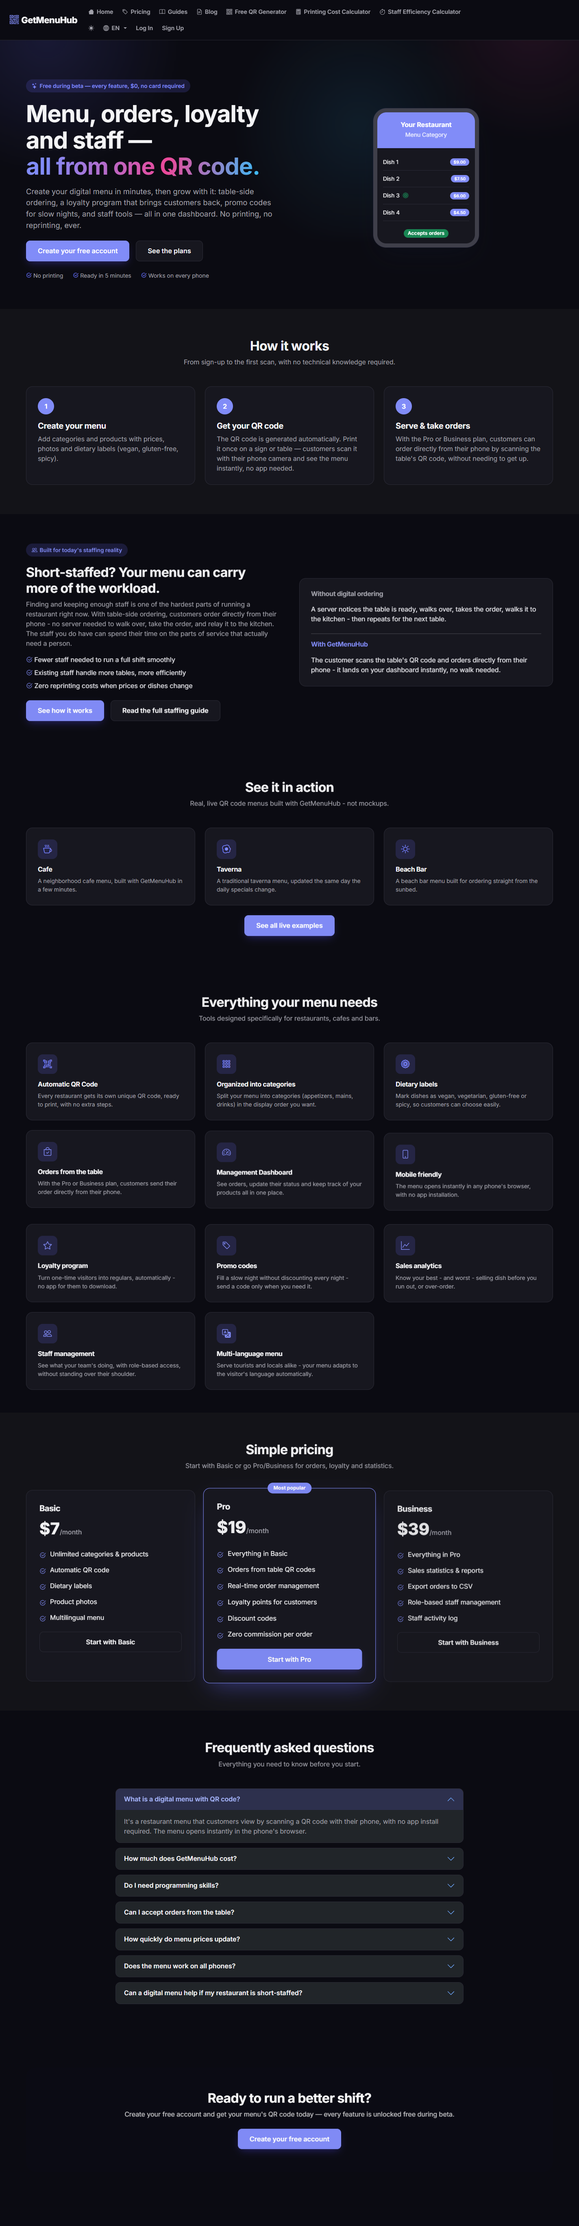
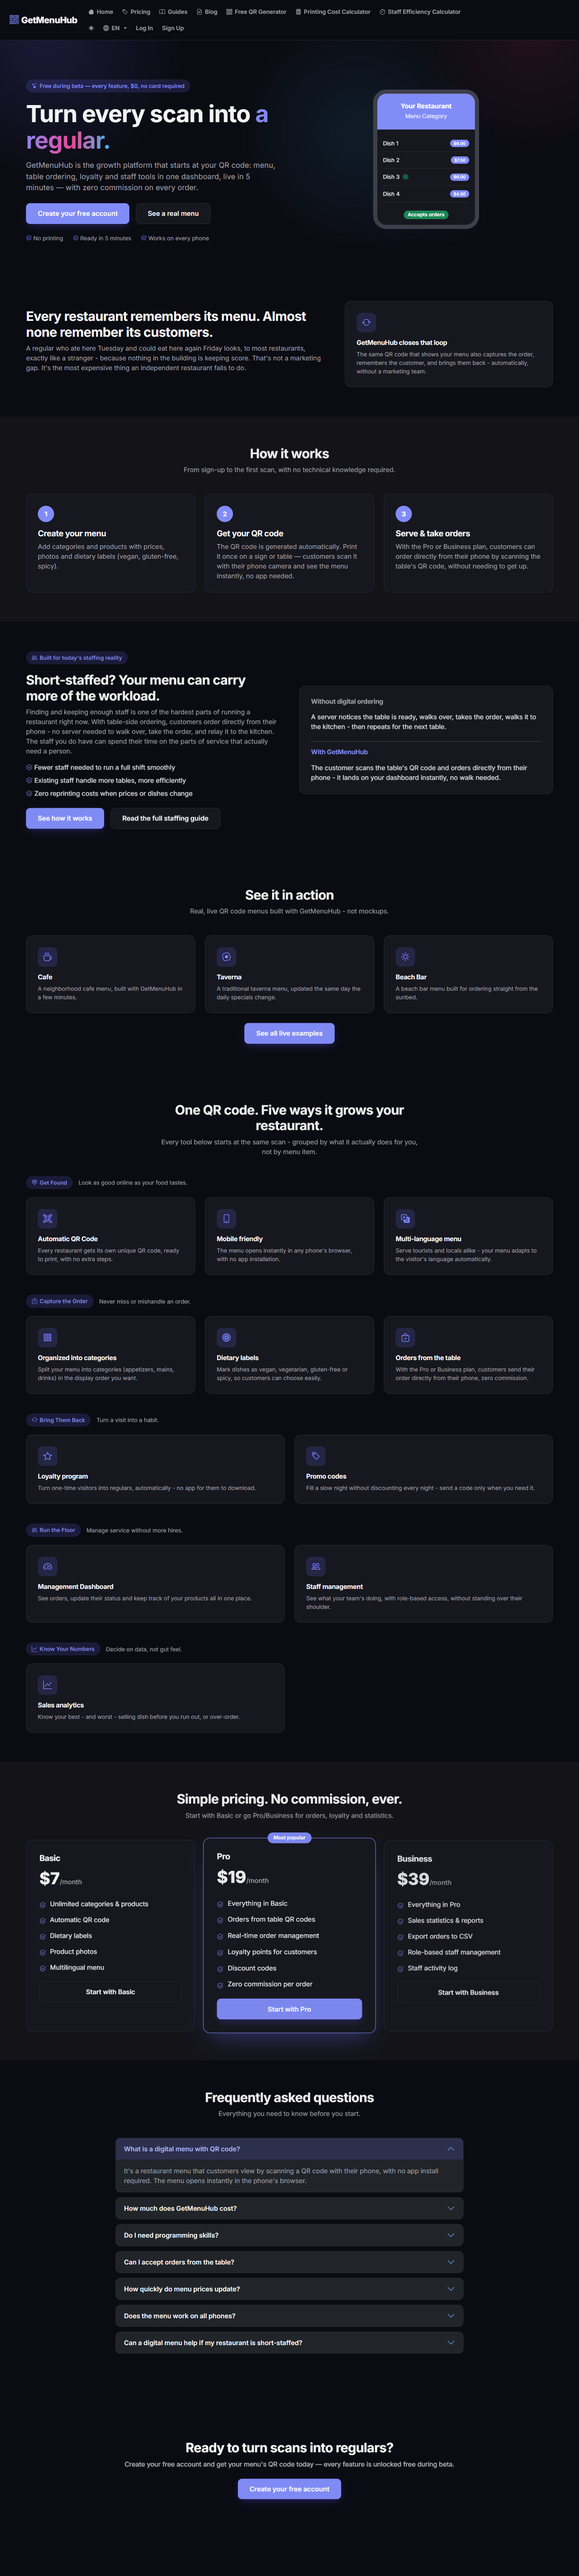
Refresh docs for the repositioned product and add a reusable demo account
Updates the engineering README with everything shipped this session (staff
order creation, bulk product actions, feature marketing pages, dashboard UX
overhaul, staging environment) and refreshes PRODUCT_SHOWCASE.md's
screenshots and ad copy to match the new outcome-first homepage positioning.

Also documents a persistent demo restaurant account ("Aegean Breeze Café")
seeded on staging so a demo account no longer needs to be rebuilt from
scratch each time - credentials are in PRODUCT_SHOWCASE.md.

diff --git a/menu-platform/README.md b/menu-platform/README.md
@@ -1,13 +1,16 @@
-# GetMenuHub — Digital QR Code Menus for Restaurants, Cafes, Bars & Beach Bars
+# GetMenuHub — Restaurant Growth Platform (Digital Menu, Ordering, Loyalty & Staff Tools)
 
-Django SaaS platform ([getmenuhub.com](https://getmenuhub.com)) that lets
-restaurants/cafes/bars/beach bars create a digital menu accessible via QR
-code, with optional online ordering (from a table **or** a sunbed), staff
-management, loyalty points, discount codes, sales statistics, and real
-subscription billing via **Paddle** (Merchant of Record — handles
-international VAT/sales tax automatically). Includes a separate mobile app
+Django SaaS platform ([getmenuhub.com](https://getmenuhub.com)) built around
+a QR code: a digital menu, optional table/sunbed ordering (zero commission),
+a phone-number loyalty program, promo codes, role-based staff accounts, sales
+statistics, and real subscription billing via **Paddle** (Merchant of
+Record — handles international VAT/sales tax automatically). See
+[`PRODUCT_SHOWCASE.md`](../PRODUCT_SHOWCASE.md) at the repo root for a
+screenshot-driven walkthrough of the product and its market positioning;
+this file is the engineering reference. Includes a separate mobile app
 (Flutter) for owners/staff, and a marketing/SEO site (guides, blog, free
-tools, per-restaurant subdomains) built to attract organic signups.
+tools, dedicated `/features/*` pages, per-restaurant subdomains) built to
+attract organic signups.
 
 Available to businesses worldwide, billed in USD through Paddle. The
 dashboard/marketing site is available in **English, Greek, Spanish and
@@ -28,7 +31,19 @@ order directly from there.
 
 The business manages everything from a dashboard (web) or the mobile app:
 menu, orders, tables/sunbeds, staff, discount codes, customer loyalty, sales
-statistics, and their subscription.
+statistics, and their subscription. Staff can also build and submit an order
+themselves (`/orders/new/`) — same product picker and server-side pricing as
+the public menu, for phone orders or walk-ins — and the full menu can be
+exported as a branded, print-ready PDF at any time (`menu_pdf.py`).
+
+The authenticated dashboard nav is deliberately **separate from the public
+marketing nav** the moment someone is logged in — grouped into Dashboard /
+Menu / Orders / Growth (Loyalty + Promo Codes) / Statistics / Staff, instead
+of mixing app links with marketing links (Guides, Blog, free tools) in one
+flat bar (`templates/base.html`). A brand-new signup also sees a short
+onboarding checklist on the Dashboard (create a category → add a product →
+add a table → preview the menu) that disappears automatically once done
+(`restaurants/views.py::dashboard`).
 
 ## 2. User Flow
 
@@ -43,9 +58,16 @@ statistics, and their subscription.
    with the new business's name/type/username/email/phone
    (`accounts/views.py::signup`) - see §5.5 for why this can't block the
    request.
-2. **Creates Categories** (e.g. "Starters", "Mains") and **Products** (price,
+2. **Creates Categories** (e.g. "Starters", "Mains" — reorderable with a
+   click; a category deleted later re-homes its products to an auto-created
+   "Other" category instead of destroying them) and **Products** (price,
    photo, dietary labels: vegan/vegetarian/gluten-free/spicy, optional
-   per-product "options" like size/filling with a price adjustment).
+   per-product "options" like size/filling with a price adjustment, either
+   mutually-exclusive radio groups or independent add-on checkboxes). The
+   Products page supports search, category filtering, and **bulk actions**
+   (select multiple → mark available/unavailable, move to another category,
+   or delete) for restaurants running 40+ items
+   (`restaurants/views.py::product_bulk_action`).
 3. **Enables ordering** (`allow_ordering`) from Settings, if their
    subscription plan allows it (see §4), and creates **Tables or Sunbeds**
    (`/restaurant/tables/`) — each gets its own QR code; the same number can
@@ -87,6 +109,14 @@ statistics, and their subscription.
 3. Every change is logged in `OrderStatusLog` (who, when, from which status to
    which) — visible on the order page as an "Activity Log", so the owner can
    see every staff member's actions.
+4. Staff (employee/admin/owner) can also **create an order themselves**
+   (`/orders/new/`, `orders/views.py::staff_create_order`) — for a phone
+   order or a walk-in, or when a customer would rather just ask. It reuses
+   the exact same product picker, option groups, and server-side pricing
+   engine as the public menu (`_populate_order_items_and_totals`, shared by
+   both `create_order_api` and `staff_create_order_api`), except the table is
+   optional (blank = takeaway/phone order) and there's no rate limit, since
+   the caller is authenticated staff rather than an anonymous scan.
 
 ## 3. Roles & Permissions
 
@@ -330,7 +360,12 @@ organic search traffic and get linked/shared:
 
 - **Guides** (`/guides/...`) - static how-to/cost-comparison articles.
 - **Blog** (`/blog/...`) - DB-backed (`blog.Post`), written either through
-  Django admin or the in-app editor at `/blog/manage/`.
+  Django admin or the in-app editor at `/blog/manage/`. A pre-written queue
+  of marketing/ROI-angled posts (`blog/content/marketing_posts.py`) publishes
+  automatically, one per day, via a GitHub Actions cron
+  (`.github/workflows/daily-blog-post.yml`) that SSHes into production and
+  runs `manage.py publish_next_marketing_post` — idempotent, no-ops once the
+  queue is exhausted.
 - **Free tools** - `/free-qr-code-generator/`, `/tools/printing-cost-calculator/`,
   `/tools/staff-efficiency-calculator/` - no login required, meant to earn
   backlinks/traffic and funnel into signup.
@@ -361,6 +396,39 @@ subdomain URL for the same menu.
 Requires a wildcard DNS record (`*.getmenuhub.com`) and, on Railway, a plan
 that allows more than one custom domain - not yet enabled on the current
 plan, so this feature is code-complete but not yet reachable in production.
+
+### 5.9 Dashboard UX & feature marketing pages
+
+- **Table/sunbed QR cards**: `RestaurantTable.generate_qr_code()` composites
+  the raw QR code onto a printable card with the restaurant's name and the
+  table/sunbed label rendered on it (`restaurants/models.py::_build_table_qr_card`,
+  Pillow-based, auto-shrinks the name's font to fit), so a printed stack of
+  codes never gets mixed up. Reused for the restaurant's main QR too.
+- **PDF menu export** (`restaurants/menu_pdf.py`, ReportLab): generated and
+  streamed on request, never stored — no storage growth. Embeds DejaVu Sans
+  for full Greek/Latin glyph coverage (base-14 PDF fonts don't cover Greek).
+- **Dedicated feature pages** (`/features/<slug>/`,
+  `menu_platform/feature_pages.py` + `feature_detail` view) — one per major
+  capability (loyalty, table ordering, promo codes, analytics, staff
+  management, multi-language menu), each with its own meta tags and a
+  benefit-first pitch, linked from the homepage feature grid and included in
+  `sitemap.xml` — built so a feature can be linked directly from an ad
+  instead of always dropping traffic on the generic homepage.
+- **Homepage feature grid** is grouped by customer value, not by database
+  table: **Get Found** (QR code, mobile, multi-language) → **Capture the
+  Order** (categories, dietary labels, table ordering) → **Bring Them Back**
+  (loyalty, promo codes) → **Run the Floor** (dashboard, staff) → **Know
+  Your Numbers** (analytics) — `templates/home.html`.
+- **Empty states** across every list page (products, categories, orders,
+  staff, promo codes, loyalty, tables, statistics) show an icon and a
+  next-action line instead of plain "No X yet" text.
+- **Settings** (`/restaurant/settings/`) is split into tabs (General,
+  Branding, Contact, Ordering & Loyalty) as the form has grown; a validation
+  error in a non-default tab auto-switches to that tab on reload so it's
+  never hidden.
+- **Statistics chart** (`stats_dashboard.html`) uses a gradient area fill
+  under the revenue trend line with an emphasized final data point, rather
+  than a bare line.
 
 ## 6. Tech Stack
 
@@ -423,13 +491,18 @@ like Stripe's.
 
 Production runs on [Railway](https://railway.com) (project **GetMenuHub**,
 service `Digital-QR-Platform-Global`), auto-deploying on every push to
-`main`. `railway status`/`railway logs`/`railway ssh` (CLI, run from
-`menu-platform/`) are the fastest way to check deploy state or run a
-one-off management command against the production database - `railway ssh`
-in particular runs the command **inside** the deployed container, which is
-required for anything touching Postgres since `DATABASE_URL` uses Railway's
-internal hostname (unreachable from outside their network, so plain
-`railway run` - which only injects env vars locally - can't reach it).
+`main`. A genuinely separate staging service (`digital-qr-platform-staging`,
+its own Postgres, its own media volume, `staging` branch → auto-deploy) is
+reachable at `uat-staging.getmenuhub.com` - the standard workflow is: commit
+to `staging`, verify live on uat-staging, then fast-forward merge `staging`
+into `main`. `railway status`/`railway logs`/`railway ssh` (CLI, run from
+`menu-platform/`, pick the service+environment with `railway link` first)
+are the fastest way to check deploy state or run a one-off management
+command against a database - `railway ssh` in particular runs the command
+**inside** the deployed container, which is required for anything touching
+Postgres since `DATABASE_URL` uses Railway's internal hostname (unreachable
+from outside their network, so plain `railway run` - which only injects env
+vars locally - can't reach it).
 
 GitHub Actions (`.github/workflows/ci.yml`) runs `manage.py test` on every
 push/PR; `SECURE_SSL_REDIRECT` is forced `False` in CI only (it defaults

diff --git a/PRODUCT_SHOWCASE.md b/PRODUCT_SHOWCASE.md
@@ -11,6 +11,25 @@ the positioning notes at the end to write copy.
 > [`menu-platform/README.md`](menu-platform/README.md). This file is the
 > product/marketing companion to it.
 
+### The demo account (reusable — don't rebuild this each time)
+
+The same "Aegean Breeze Café" account used for every screenshot below lives
+permanently on staging, so it never has to be rebuilt from scratch:
+
+```
+https://uat-staging.getmenuhub.com/
+
+Owner:     demo_cafe        / DemoCafe2026!
+Admin:     demo_cafe_admin  / DemoCafe2026!
+Employee:  demo_cafe_staff  / DemoCafe2026!
+
+Public menu: https://uat-staging.getmenuhub.com/menu/bcacac343b5d4d9f838d/
+```
+
+This is a **staging** account only — it doesn't affect the real production
+site or real customers. Use it directly for demos, screen recordings, or
+walking someone through the product; there's no need to seed a fresh one.
+
 ## Contents
 
 1. [The pitch, in one paragraph](#the-pitch-in-one-paragraph)
@@ -30,13 +49,14 @@ the positioning notes at the end to write copy.
 
 ## The pitch, in one paragraph
 
-GetMenuHub is a restaurant growth platform disguised as a QR menu: a business
-signs up, builds a menu in minutes, and gets a QR code that replaces printed
-menus forever — but underneath that is a full toolkit that keeps customers
-coming back and keeps the owner in control: table-side ordering with zero
-commission, a loyalty program that needs no app, promo codes for slow
-nights, role-based staff accounts, and sales analytics. Every plan includes
-the digital menu; Pro and Business unlock the growth layer on top.
+Every restaurant remembers its menu. Almost none remember its customers —
+that's the gap GetMenuHub actually closes. A business signs up, builds a
+menu in minutes, and gets a QR code that replaces printed menus forever —
+but underneath that is a full toolkit that turns a one-time visitor into a
+regular and keeps the owner in control: table-side ordering with zero
+commission, a loyalty program that needs no app or card, promo codes for
+slow nights, role-based staff accounts, and sales analytics. Every plan
+includes the digital menu; Pro and Business unlock the growth layer on top.
 
 ---
 
@@ -192,10 +212,20 @@ overwhelming.
 
 ## 9. The marketing site
 
-The homepage leads with the full platform, not just the menu — and
-foregrounds the free-beta offer instead of burying it in a banner:
+The homepage leads with the outcome, not the mechanism: *"Turn every scan
+into a regular."* The QR code proves the claim a sentence later, instead of
+being the whole pitch — and the free-beta offer sits in the hero itself
+instead of a banner above it.
 
 ![Homepage](docs/showcase/01-homepage.png)
+
+Right under the hero, a short problem section names exactly what the product
+solves before explaining how: *"Every restaurant remembers its menu. Almost
+none remember its customers."* Further down, the feature grid is grouped
+into five customer-value pillars — **Get Found, Capture the Order, Bring
+Them Back, Run the Floor, Know Your Numbers** — instead of a flat list of
+eleven unrelated cards, so the page itself teaches a visitor what kind of
+platform this is, not just what buttons exist.
 
 Every major feature also has its own dedicated landing page — good for SEO,
 and good for linking directly from an ad instead of dropping traffic on the
@@ -244,42 +274,43 @@ A few notes to turn the screenshots above into actual ads, written from a
 
 ### The core hook (use this before anything else)
 
-> **Menu, orders, loyalty and staff — all from one QR code.**
+> **Turn every scan into a regular.**
 
-This single line does the most work: it opens with the QR code (which every
-restaurant owner already recognizes and associates with "modern"), and
-closes the sentence by revealing the platform is bigger than a menu, before
-anyone can dismiss it as "just another QR menu app."
+This is the outcome, not the mechanism — it doesn't open with "QR code" or
+"menu," because those words immediately cap what a restaurant owner expects
+to pay and how seriously they take the product. Let the QR code prove
+itself a sentence later ("GetMenuHub is the growth platform that starts at
+your QR code…"); lead the ad itself with what the owner actually wants.
 
 ### Sample ad copy
 
 **Meta / Instagram (feed, square or 4:5 image — use the public-menu or
 table-order-cart screenshot):**
 
-> Your menu, always up to date. Orders straight from the table. Customers
-> who actually come back. One QR code does it all — set up free in 5
-> minutes, no printer, no app for your customers to download.
-> **Create your free menu →**
+> A regular who ate here Tuesday shouldn't look like a stranger on Friday.
+> GetMenuHub remembers them automatically — no app, no card, just the QR
+> code already on your table. Free during beta, every feature unlocked.
+> **Turn every scan into a regular →**
 
 **Meta / Instagram, staffing angle (use the dashboard or new-order screenshot):**
 
 > Short-staffed? Let customers order themselves. Table-side ordering means
-> fewer trips back and forth for your team — and it's free to try, every
-> feature unlocked.
+> fewer trips back and forth for your team — zero commission, free to try.
 > **See how it works →**
 
 **Google Search ad (headline / description pairs):**
 
-- H1: `QR Menu + Table Ordering` · H2: `Free During Beta — No Card` ·
-  Desc: `Digital menu, orders, loyalty & staff tools in one dashboard. Set up in 5 minutes.`
-- H1: `Stop Reprinting Your Menu` · H2: `Update Prices Instantly` ·
-  Desc: `QR code menu with zero reprinting. Every plan feature free during beta.`
+- H1: `Turn Scans Into Regulars` · H2: `Free During Beta — No Card` ·
+  Desc: `Digital menu, ordering, loyalty & staff tools in one dashboard. Zero commission. Live in 5 minutes.`
+- H1: `Stop Losing Repeat Customers` · H2: `No App, No Card Needed` ·
+  Desc: `Loyalty that just works from the QR code already on your table. Free during beta.`
 
 **Greek-language variant (for local/tourist-area targeting):**
 
-> Το μενού σας πάντα ενημερωμένο, παραγγελίες από το τραπέζι, πελάτες που
-> ξαναγυρνάνε. Όλα από έναν κωδικό QR. Δωρεάν δοκιμή, χωρίς κάρτα.
-> **Δημιουργήστε το δωρεάν μενού σας →**
+> Ένας σταθερός πελάτης δεν πρέπει να μοιάζει με άγνωστο την επόμενη φορά.
+> Το GetMenuHub τον θυμάται αυτόματα — χωρίς app, χωρίς κάρτα, μόνο ο
+> κωδικός QR που ήδη έχετε στο τραπέζι. Δωρεάν κατά τη διάρκεια beta.
+> **Μετατρέψτε κάθε σάρωση σε σταθερό πελάτη →**
 
 ### Which screenshot to use for which angle
 
